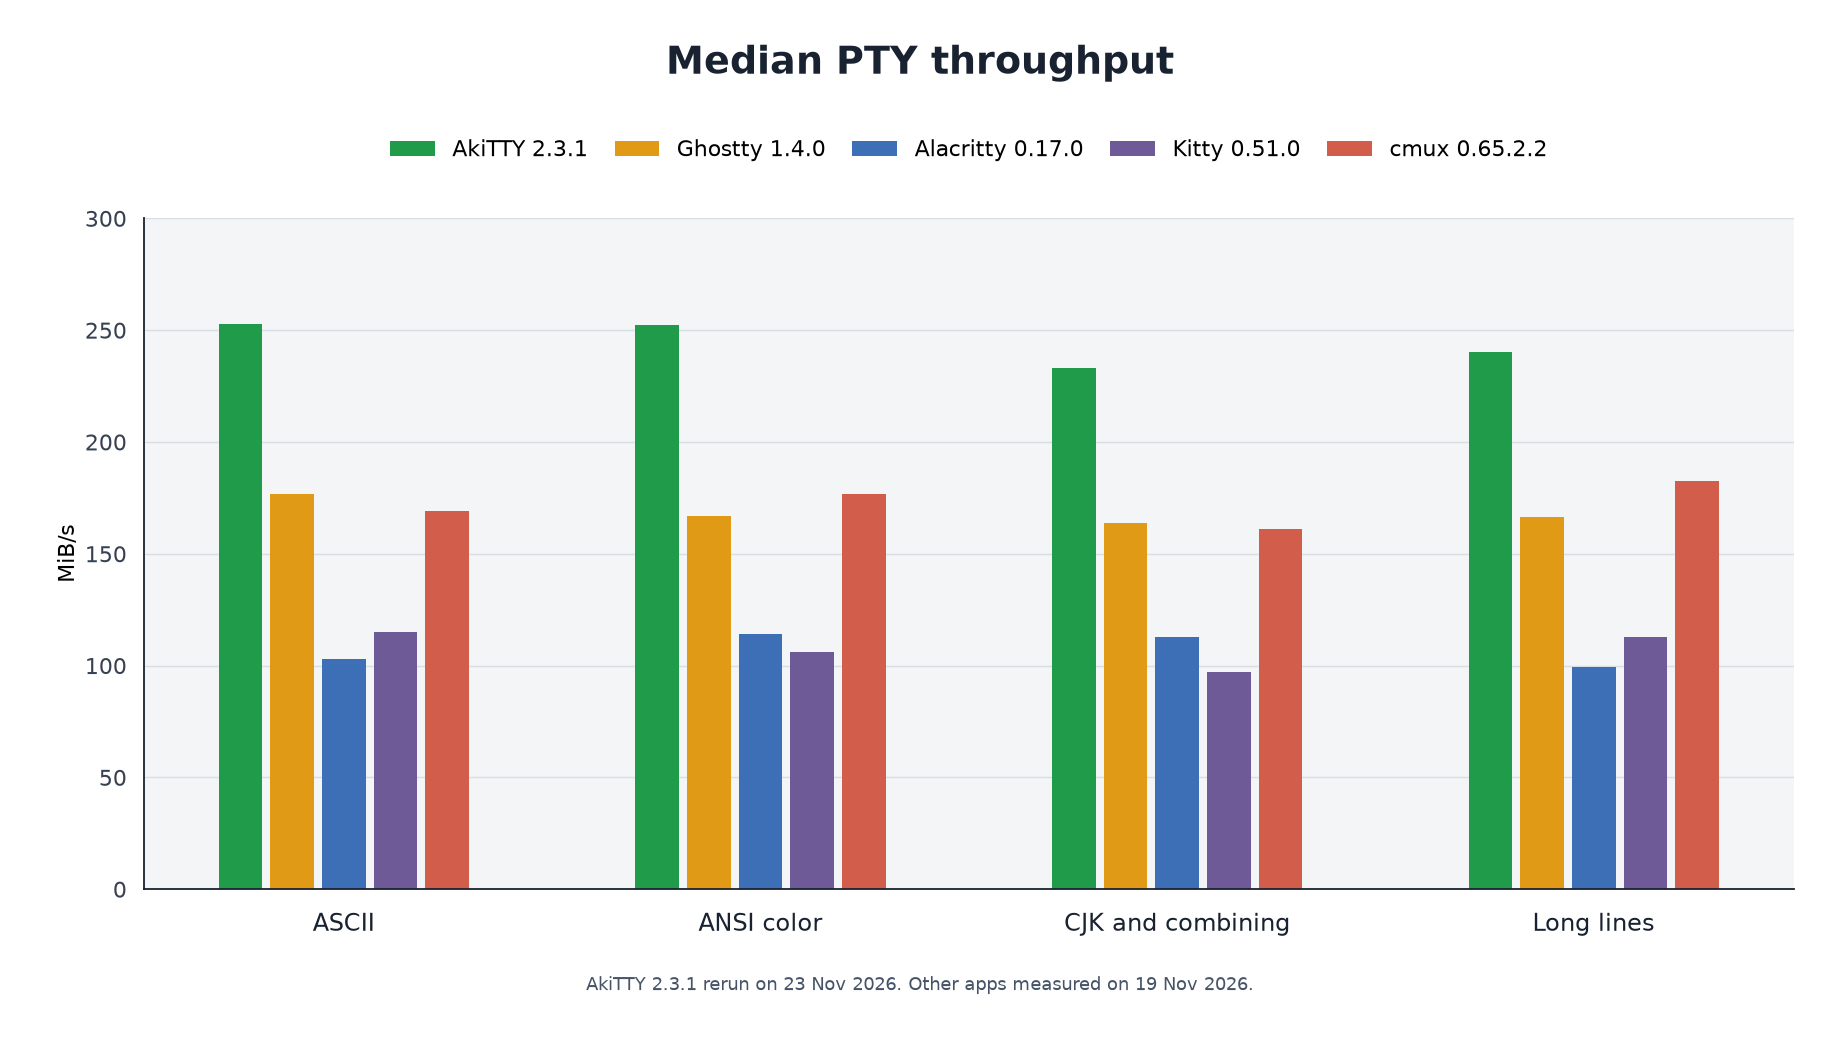
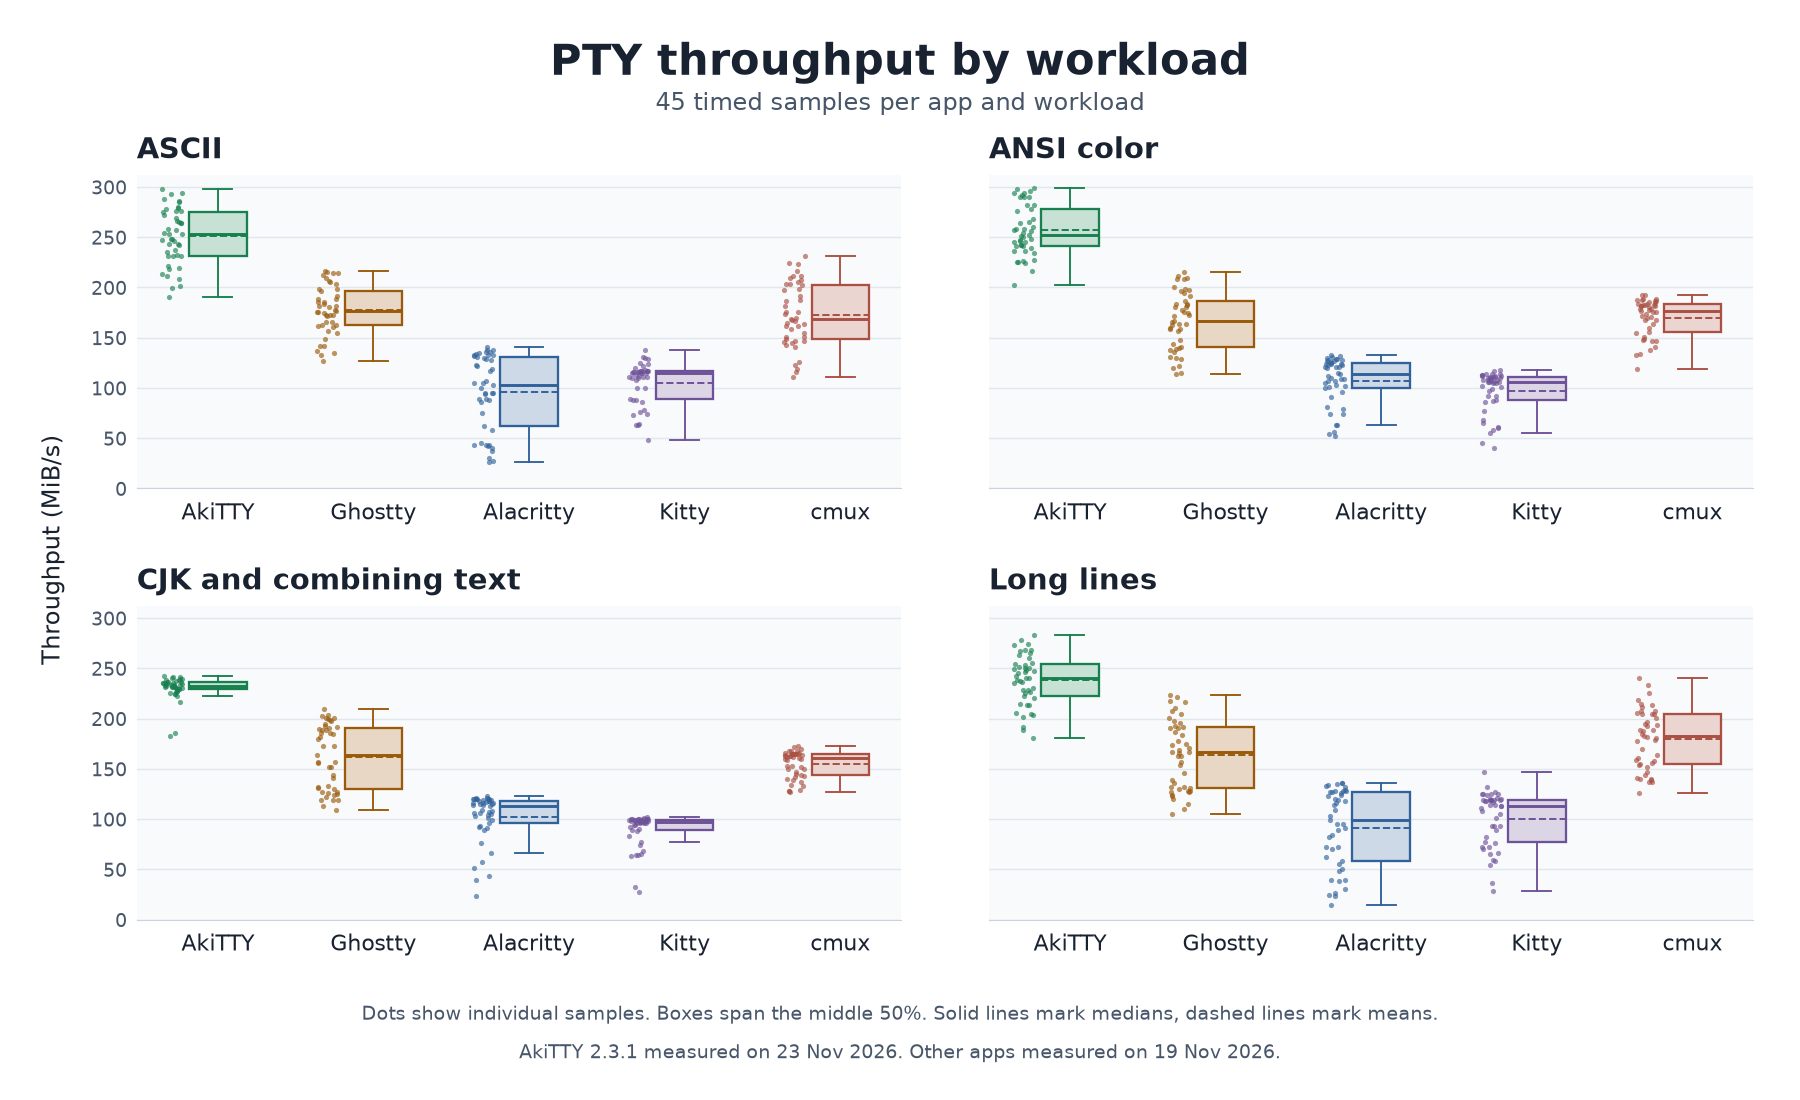
Show PTY benchmark distributions as box plots

diff --git a/README.md b/README.md
@@ -132,11 +132,11 @@ the shell and connects its PTY to the terminal.
 ## Performance
 
 AkiTTY 2.3.1 was measured on 2026-11-23. The other four columns use the
-2026-11-19 comparison. Each rate uses the median elapsed time across 45 real
-PTY samples, from the first payload write through the terminal's reply to a
-trailing cursor-position request.
+2026-11-19 comparison. Each app has 45 timed PTY samples per workload, from
+the first payload write through the terminal's reply to a trailing
+cursor-position request. The table reports median throughput.
 
-<img src="docs/images/macos-pty-throughput.png" width="840" alt="Grouped bars of median PTY throughput in MiB/s across four workloads. AkiTTY 2.3.1 was measured on November 23. Ghostty, Alacritty, Kitty and cmux were measured on November 19. The exact rates follow in the table.">
+<img src="docs/images/macos-pty-throughput.png" width="840" alt="Box plots of PTY throughput in MiB/s for five apps across four workloads. Dots show individual samples, boxes cover the middle 50%, solid lines mark medians, and dashed lines mark means. The table lists the exact medians.">
 
 | Workload (median MiB/s) | AkiTTY 2.3.1 | Ghostty 1.4.0 | Alacritty 0.17.0 | Kitty 0.51.0 | cmux 0.65.2.2 |
 | --- | ---: | ---: | ---: | ---: | ---: |
